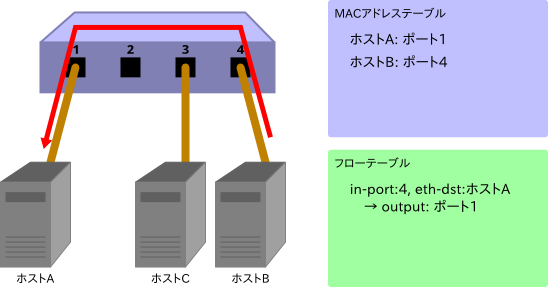
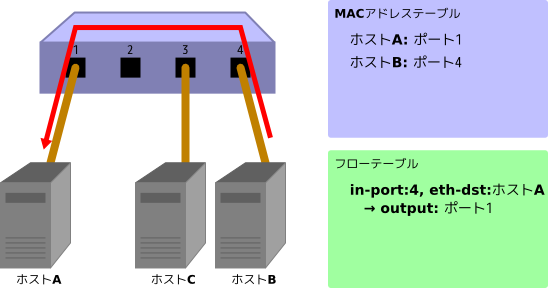
replace png to eps for latex
- using eps instead of png for latex/pdf
- auto-generates eps and png from svg

This change requires installation of inkscape for the conversion of
the image to build a document.

diff --git a/ja/source/link_aggregation.rst b/ja/source/link_aggregation.rst
@@ -15,9 +15,18 @@
 機能により、特定のネットワーク機器間の通信速度を向上させることができ、また同時
 に、冗長性を確保することで耐障害性を向上させることができます。
 
- +---------------------------------------------+---------------------------------------------+
- | .. image:: images/link_aggregation/fig1.png | .. image:: images/link_aggregation/fig2.png |
- +---------------------------------------------+---------------------------------------------+
+.. only:: latex
+
+   +---------------------------------------------+---------------------------------------------+
+   | .. image:: images/link_aggregation/fig1.eps | .. image:: images/link_aggregation/fig2.eps |
+   +---------------------------------------------+---------------------------------------------+
+
+.. only:: not latex
+
+   +---------------------------------------------+---------------------------------------------+
+   | .. image:: images/link_aggregation/fig1.png | .. image:: images/link_aggregation/fig2.png |
+   |    :scale: 40%                              |    :scale: 40%                              |
+   +---------------------------------------------+---------------------------------------------+
 
 リンク・アグリゲーション機能を使用するには、それぞれのネットワーク機器において、
 どのインターフェースをどのグループとして束ねるのかという設定を事前に行っておく
